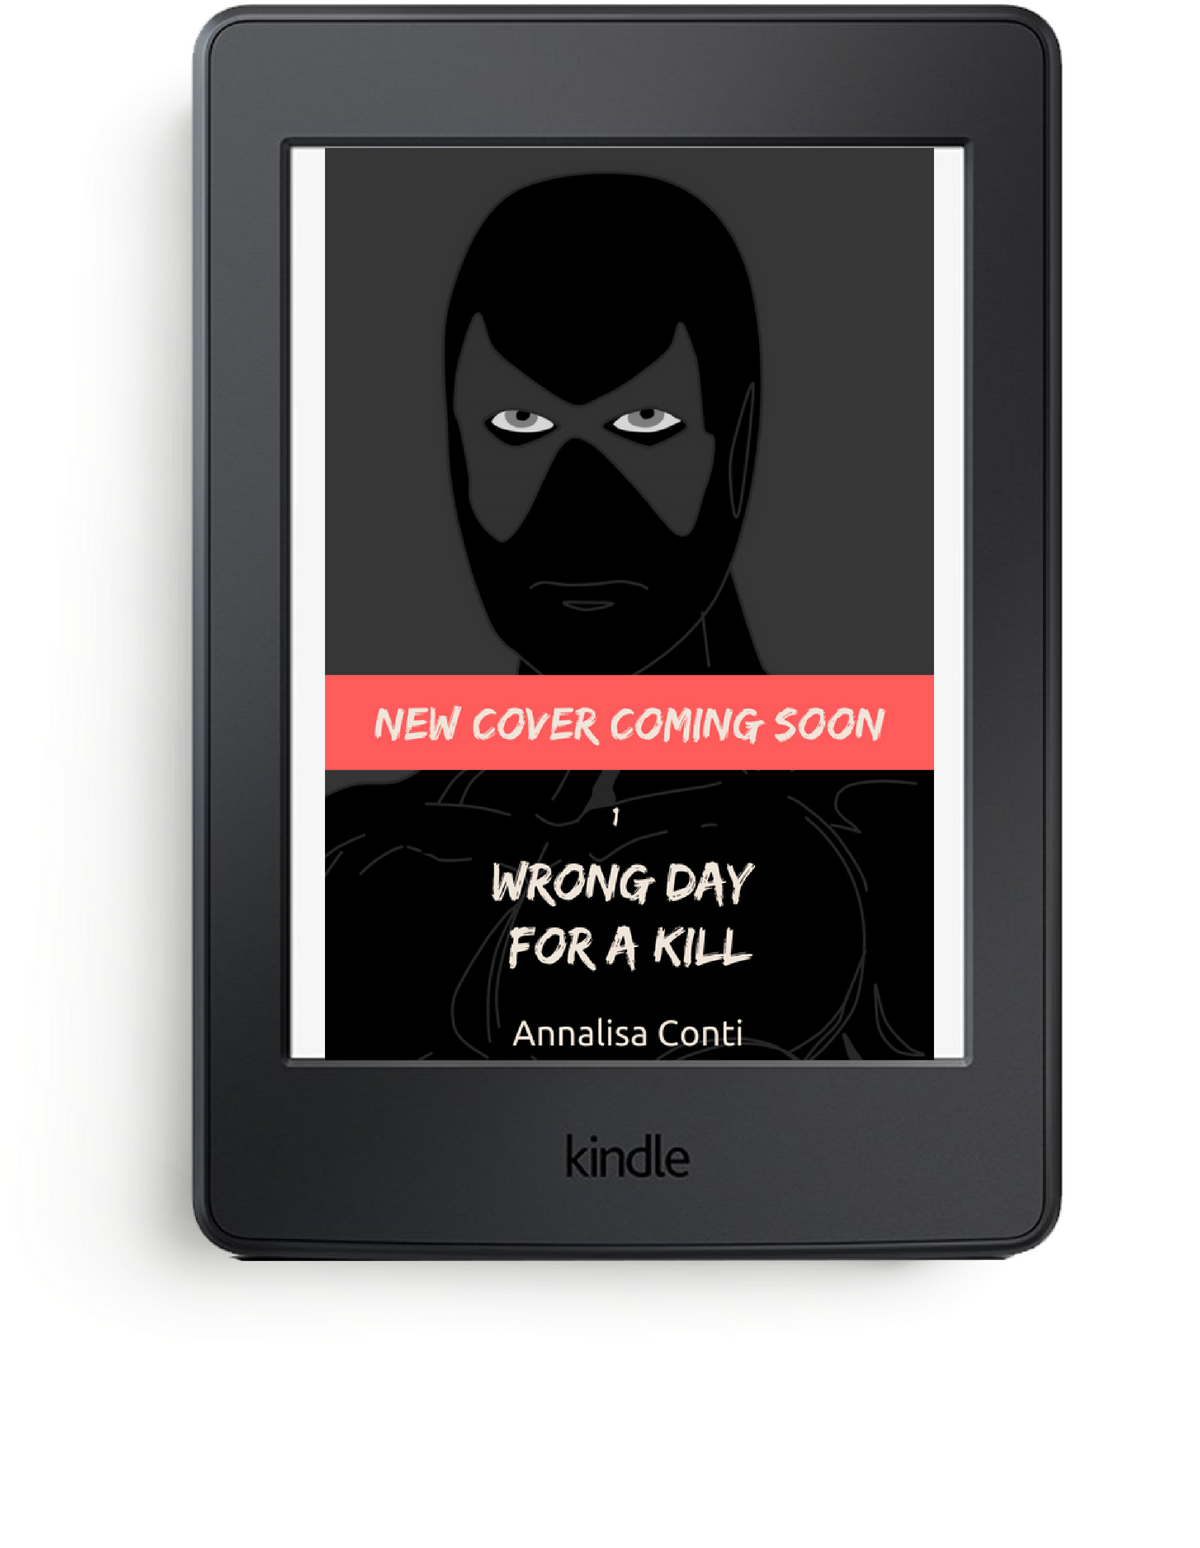
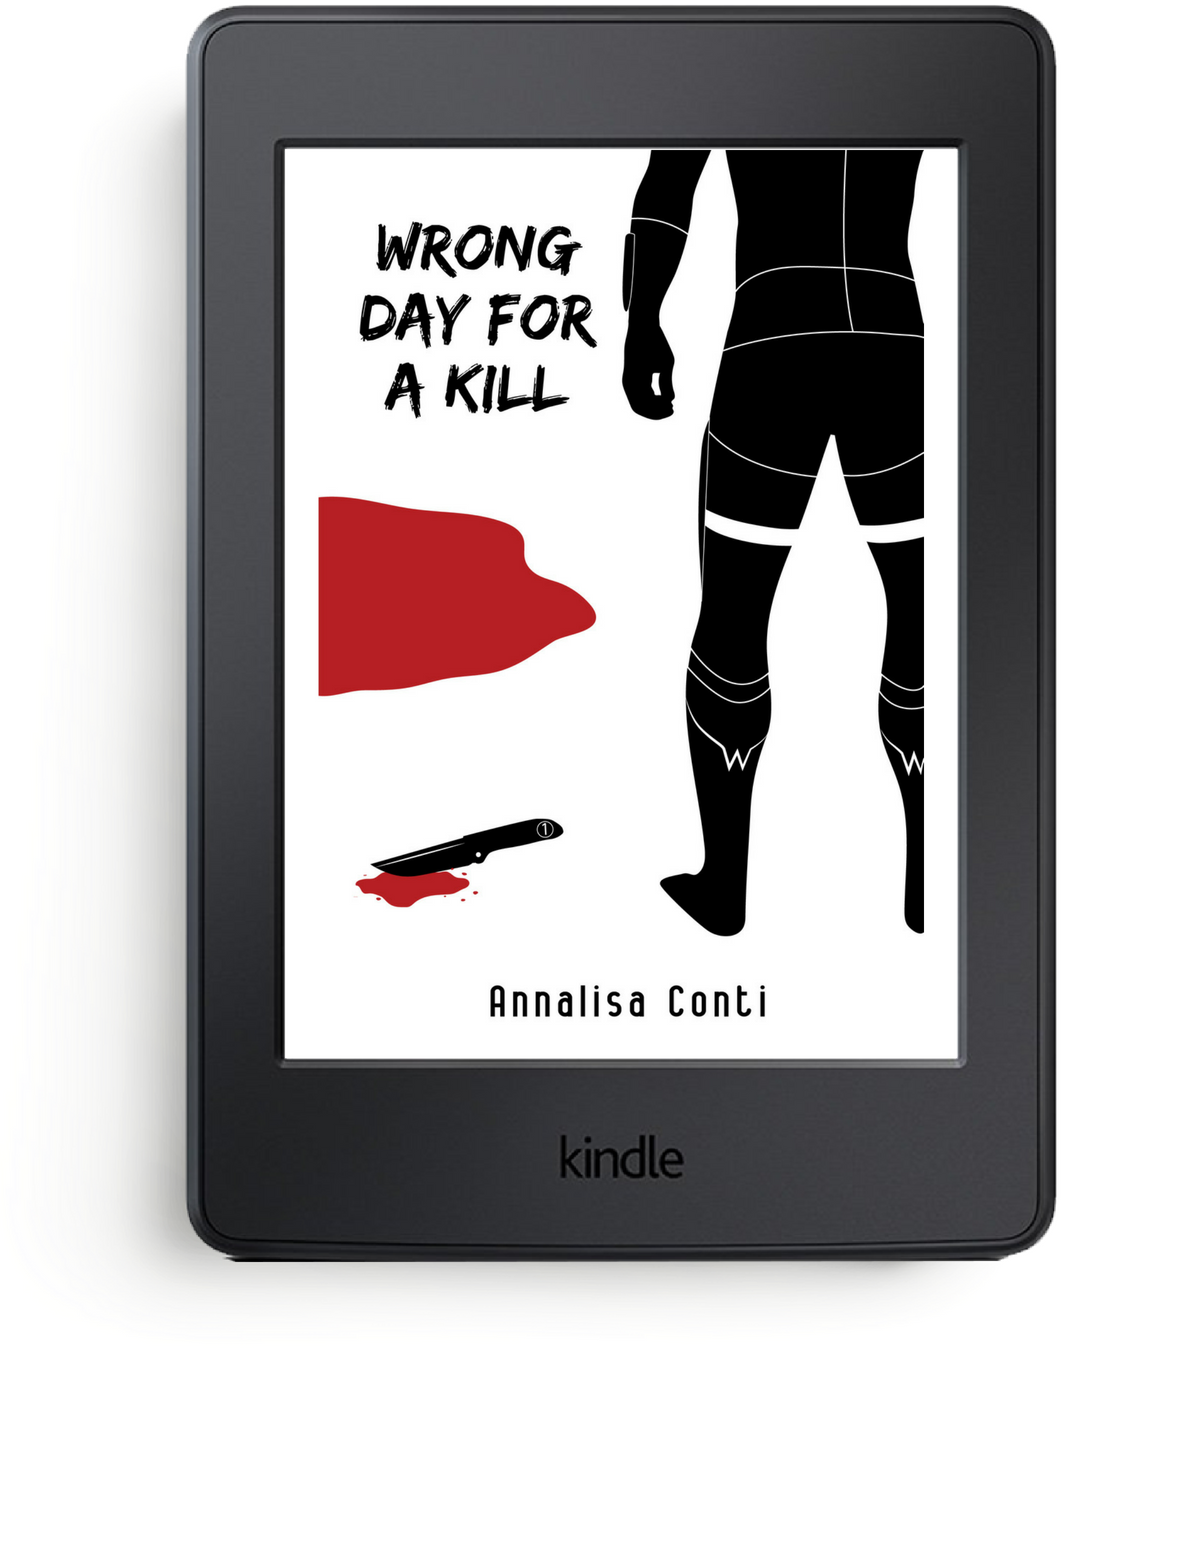
update w new covers

diff --git a/w-series.html b/w-series.html
@@ -231,22 +231,81 @@
 
 
 
-    <div class="container">
-    <div class="row">        
+
+
+-->
+
+   <div class="container">
+    <div class="row">
 
         <div class="col-md-4">
         <div class="col-lg-* col-md-10 mx-auto">
             <div class="site-heading">
             <p>
-            <a href="https://annalisa.nyc/W6">
-              <img class="img-fluid" src="img/superhero-w-covers/6.png" alt="Way To Go, Guinn (Superhero Stories: The W Series Book 6)">
+            <a href="https://annalisa.nyc/W1" target="_blank">
+              <img class="img-fluid" src="img/superhero-w-covers/1.jpg" alt="Wrong Day For A Kill (Superhero Stories: The W Series Book 1)">
             </a>
             <p>
+              <center><a class="btn btn-primary" href="https://annalisa.nyc/W" target="_blank">BUY EPISODE 1</a></center>
+            </div>
+        </div>
+        </div>
+
+        <div class="col-md-4">        
+        <div class="col-lg-* col-md-10 mx-auto">
+            <div class="site-heading">
+            <p>
+            <a href="https://annalisa.nyc/W2" target="_blank">
+              <img class="img-fluid" src="img/superhero-w-covers/2.jpg" alt="Woman In Black (Superhero Stories: The W Series Book 2)">
+            </a>
+            <p>
+            <center><a class="btn btn-primary" href="https://annalisa.nyc/W" target="_blank">BUY EPISODE 2</a></center>
             </div>
         </div>
         </div>
 
         <div class="col-md-4">
+        <div class="col-lg-* col-md-10 mx-auto">
+            <div class="site-heading">
+            <p>
+            <a href="https://annalisa.nyc/W3" target="_blank">
+              <img class="img-fluid" src="img/superhero-w-covers/3.jpg" alt="Wild Is The Night (Superhero Stories: The W Series Book 3)">
+            </a>
+            <p>
+              <center><a class="btn btn-primary" href="https://annalisa.nyc/W" target="_blank">BUY EPISODE 3</a></center>
+            </div>
+        </div>
+        </div>
+
+</div>
+</div>
+
+<p>
+<p>
+  <br>
+
+
+    <div class="container">
+    <div class="row">        
+
+
+       <div class="col-md-4">
+        <div class="col-lg-* col-md-10 mx-auto">
+            <div class="site-heading">
+            <p>
+            <a href="https://annalisa.nyc/W4" target="_blank">
+              <img class="img-fluid" src="img/superhero-w-covers/4.jpg" alt="Where To Go Next (Superhero Stories: The W Series Book 4)">
+            </a>
+            <p>
+              <center><a class="btn btn-primary" href="https://annalisa.nyc/W" target="_blank">BUY EPISODE 4</a></center>
+            </div>
+        </div>
+        </div>
+
+
+        
+
+   <!--     <div class="col-md-4">
         <div class="col-lg-* col-md-10 mx-auto">
             <div class="site-heading">
             <p>
@@ -263,62 +322,18 @@
         <div class="col-lg-* col-md-10 mx-auto">
             <div class="site-heading">
             <p>
-            <a href="https://annalisa.nyc/W4">
-              <img class="img-fluid" src="img/superhero-w-covers/4.png" alt="Where To Go Next (Superhero Stories: The W Series Book 4)">
+            <a href="https://annalisa.nyc/W6">
+              <img class="img-fluid" src="img/superhero-w-covers/6.png" alt="Way To Go, Guinn (Superhero Stories: The W Series Book 6)">
             </a>
             <p>
             </div>
         </div>
-        </div>
+        </div>-->
 
 </div>
 </div>
 
 
-
-   <div class="container">
-    <div class="row">
-        
-        <div class="col-md-4">
-        <div class="col-lg-* col-md-10 mx-auto">
-            <div class="site-heading">
-            <p>
-            <a href="https://annalisa.nyc/W3">
-              <img class="img-fluid" src="img/superhero-w-covers/3.png" alt="Wild Is The Night (Superhero Stories: The W Series Book 3)">
-            </a>
-            <p>
-            </div>
-        </div>
-        </div>
-
-        <div class="col-md-4">        
-        <div class="col-lg-* col-md-10 mx-auto">
-            <div class="site-heading">
-            <p>
-            <a href="https://annalisa.nyc/W2">
-              <img class="img-fluid" src="img/superhero-w-covers/2.png" alt="Woman In Black (Superhero Stories: The W Series Book 2)">
-            </a>
-            <p>
-            </div>
-        </div>
-        </div>
-
-        <div class="col-md-4">
-        <div class="col-lg-* col-md-10 mx-auto">
-            <div class="site-heading">
-            <p>
-            <a href="https://annalisa.nyc/W1">
-              <img class="img-fluid" src="img/superhero-w-covers/1.png" alt="Wrong Day For A Kill (Superhero Stories: The W Series Book 1)">
-            </a>
-            <p>
-            </div>
-        </div>
-        </div>
-
-
-</div>
-</div>
--->
 <hr>
 
 
